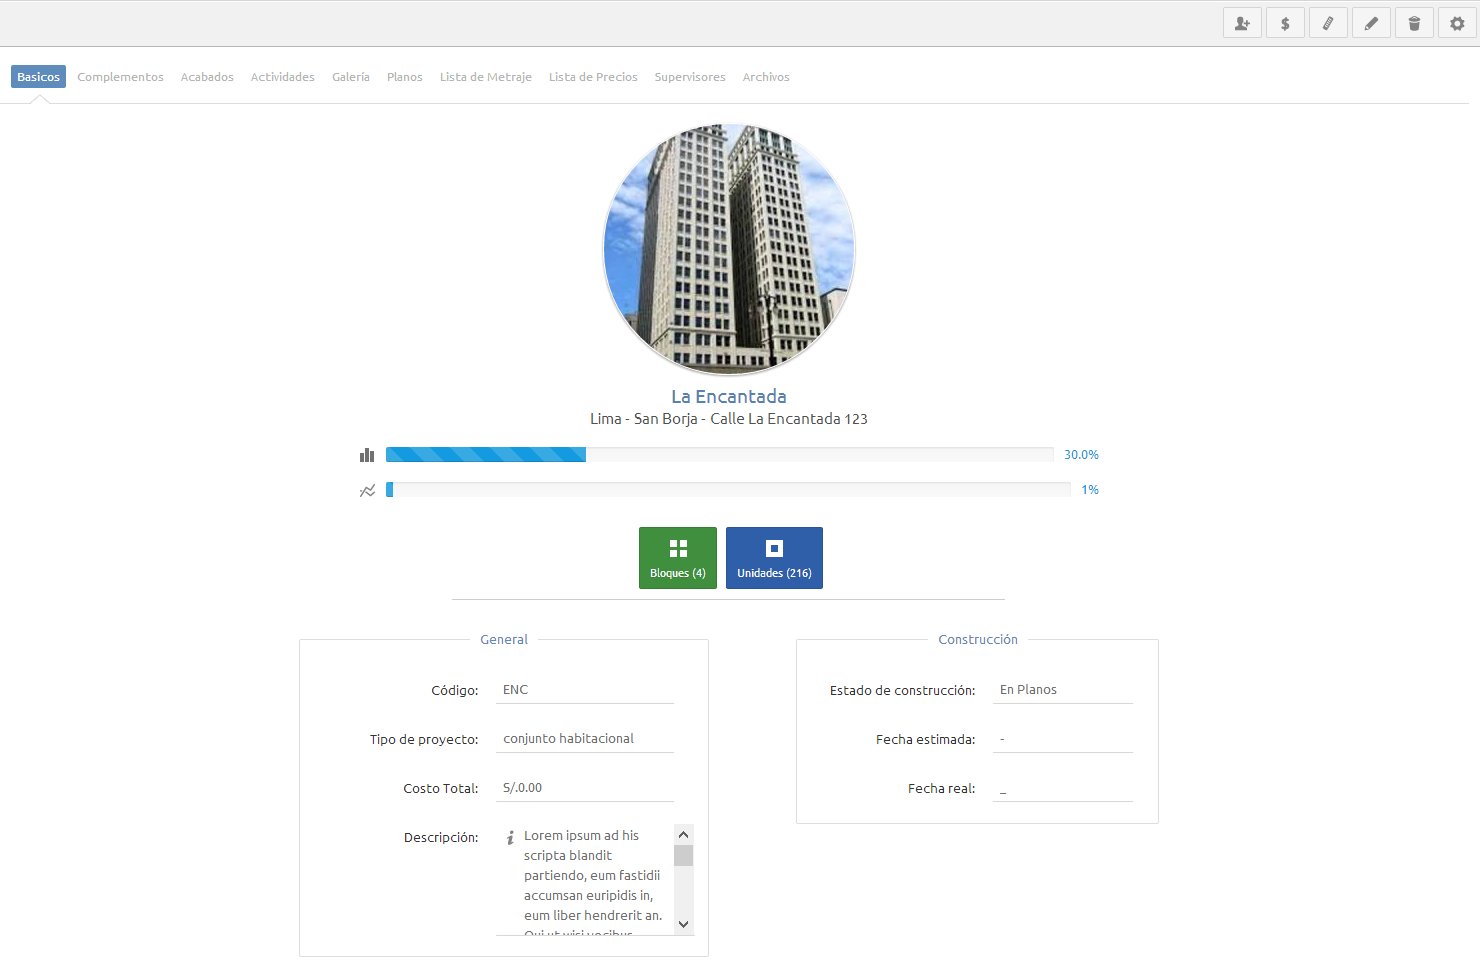
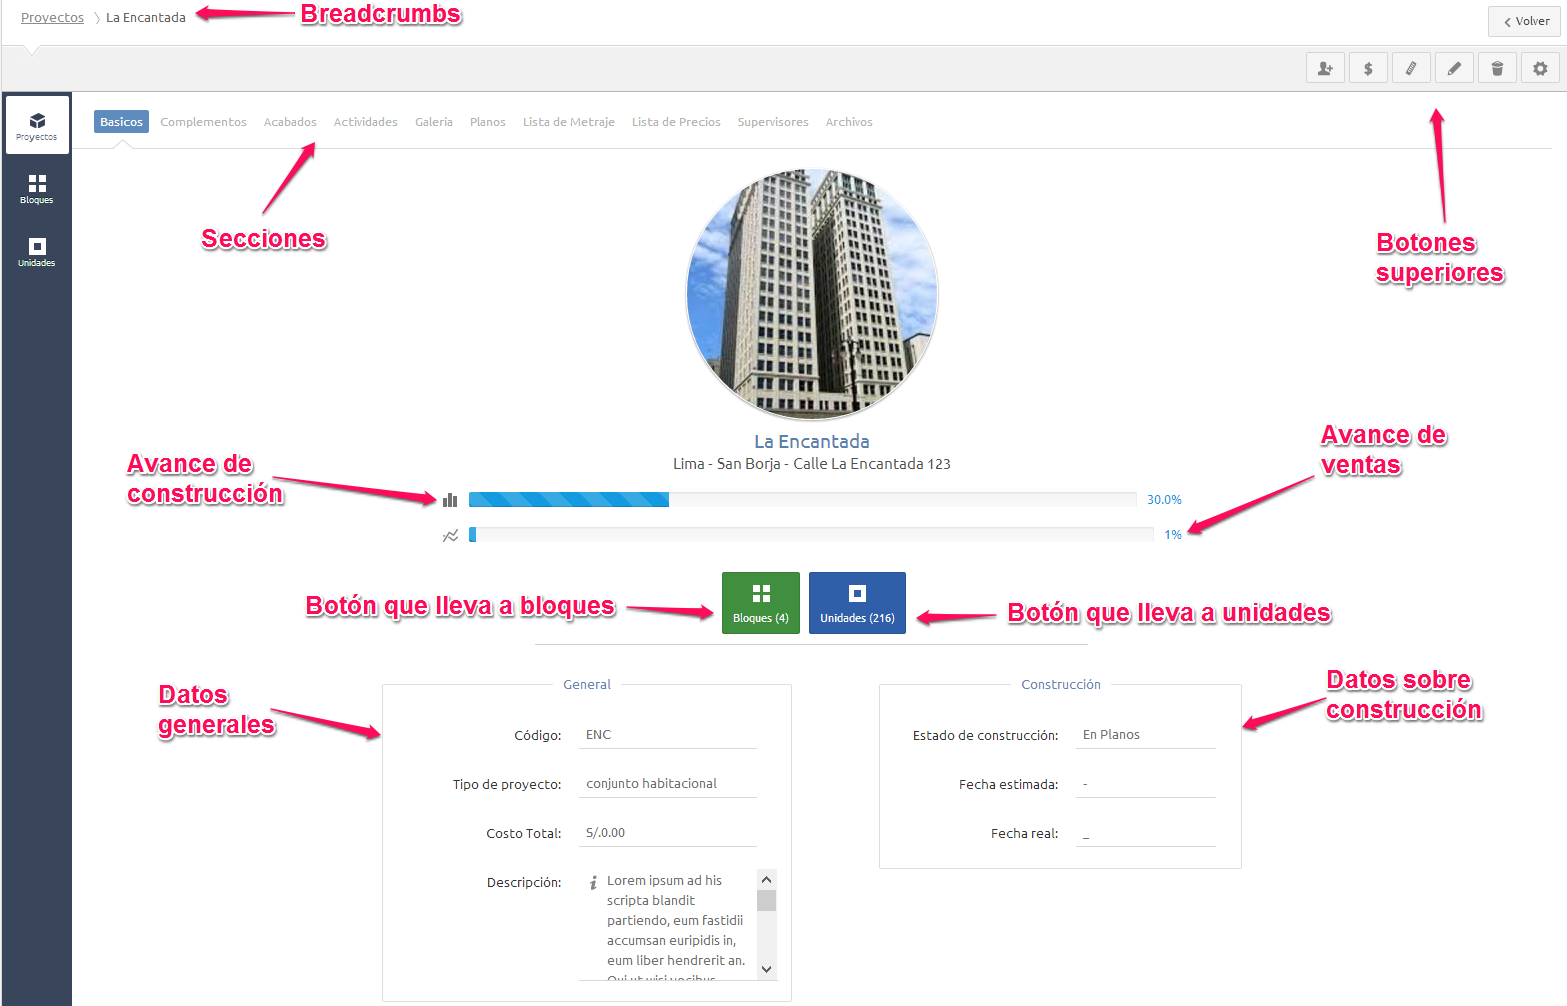
Vista de proyecto

diff --git a/_site/vistaproyecto.html b/_site/vistaproyecto.html
@@ -73,6 +73,10 @@
 - Archivos
 </code></pre>
 
+<p>  <strong>Botones superiores</strong></p>
+
+<blockquote><p><img src="/images/proyectosuperiores.png" alt="Botones superiores" /></p></blockquote>
+
 <p>  En la parte superior derecha de la vista tiene 6 botones, cada uno requiere de accesos para poder ser visualizados.</p>
 
 <p>  El primero permite que al usuario asignar supervisores al proyecto en cuestión. Para verlo necesita acceso a editar el proyecto. Para más información revisar el siguiente enlace: <a href="asignarsupervisores.html">Asignar supervisores</a>.</p>
@@ -89,47 +93,43 @@
 
 <p>  Finalmente tiene un botón "Volver" para regresar a la lista de proyectos.</p>
 
+<p>  <strong>Secciones</strong></p>
+
 <p>  Las siguientes son descripciones de las secciones que se pueden visualizar del proyecto:</p>
 
-<p>  <strong>Básicos</strong></p>
+<ul>
+<li><p>Básicos:</p>
 
-<p>  Esta es la vista principal del proyecto, muestra la imagen que ha sido seleccionada como predeterminada en la sección de galería, dos barras de progreso, una de construcción y otra de unidades vendidas. La vista permite visualizar los datos más generales del proyecto, tales como: nombre, dirección, departamento, distrito, código y tipo de proyecto. Tabién muestra datos como: Costo total, descripción, estado de construcción, fechas real y estimada de construcción.</p>
+<p>Esta es la vista principal del proyecto, muestra la imagen que ha sido seleccionada como predeterminada en la sección de galería, dos barras de progreso, una de construcción y otra de unidades vendidas. La vista permite visualizar los datos más generales del proyecto, tales como: nombre, dirección, departamento, distrito, código y tipo de proyecto. Tabién muestra datos como: Costo total, descripción, estado de construcción, fechas real y estimada de construcción. Esta vista muestra también un botón que lleva a ver la lista de unidades exclusivamente de el proyecto en cuestión, así mismo, si es que el proyecto contase con bloques, tembién se visualiza un botón que lleva al usuario a una lista de bloques exclusivamente del proyecto en cuestión. Para usar ambos botones se requieren accesos a ver bloques y ver uniades respectivamente. Para más información haga click en los siguientes enlaces: <a href="bloques.html">Bloques</a>, <a href="unidades.html">Unidades</a>.</p></li>
+<li><p>Complementos:</p>
 
-<p>  <strong>Complementos</strong></p>
+<p>Esta sección muestra los complementos en las zonas comunes del proyecto. Para entender todo sobre complementos revise el siguiente link: <a href="complementos.html">Complementos</a>.</p></li>
+<li><p>Acabados:</p>
 
-<p>  Esta sección muestra los complementos en las zonas comunes del proyecto. Para entender todo sobre complementos revise el siguiente link: <a href="complementos.html">Complementos</a>.</p>
+<p>Esta sección muestra los acabado en las zonas comunes del proyecto. Para entender todo sobre acabados revise el siguiente link: <a href="acabados.html">Acabados</a>.</p></li>
+<li><p>Actividades:</p>
 
-<p>  <strong>Acabados</strong></p>
+<p>Las actividades son una bitácora de todo lo sucedido con el proyecto, con sus bloques y sus unidades. Ya sean interacciones o modificación de datos, se mostrarán como registros en la lista de actividades, indicando la fecha y hora de ocurrencia, así como el usuario que las originó. Para saber más acerca de actividades consulte el siguiente link: <a href="actividades.html">Actividades</a>.</p></li>
+<li><p>Galería:</p>
 
-<p>  Esta sección muestra los acabado en las zonas comunes del proyecto. Para entender todo sobre acabados revise el siguiente link: <a href="acabados.html">Acabados</a>.</p>
+<p>Esta sección muestra las imágenes del proyecto, su manipulación es igual en proyectos, bloques y unidades. Para entender todo sobre galería de imágenes revise el siguiente link: <a href="galeria.html">Galería</a>.</p></li>
+<li><p>Planos:</p>
 
-<p>  <strong>Actividades</strong></p>
+<p>Esta sección muestra los planos de las zonas comunes del proyecto, su manipulación es igual en proyectos, bloques y unidades. Para entender todo sobre planos revise el siguiente link: <a href="planos.html">Planos</a>.</p></li>
+<li><p>Lista de metraje:</p>
 
-<p>  Las actividades son una bitácora de todo lo sucedido con el proyecto, con sus bloques y sus unidades. Ya sean interacciones o modificación de datos, se mostrarán como registros en la lista de actividades, indicando la fecha y hora de ocurrencia, así como el usuario que las originó. Para saber más acerca de actividades consulte el siguiente link: <a href="actividades.html">Actividades</a>.</p>
+<p>Las listas de metraje definen un área libre y un área techada para cada unidad. Permiten que un gestor de proyectos genere nuevas listas de metraje cuando sea necesario. Están relacionadas a los planos, y sólo una puede estar activa. Para entender todo sobre listas de metraje revise el siguiente link: <a href="listasmetraje.html">Listas de metraje</a>.</p></li>
+<li><p>Lista de precios:</p>
 
-<p>  <strong>Galería</strong></p>
+<p>Las listas de precios permiten definir precios para diferentes periodos de venta del proyecto. Un gestor de proyectos puede publicar nuevas listas de precios cuando sea necesario, sólo una puede estar activa. Para entender todo sobre listas de precios revise el siguiente link: <a href="listasprecios.html">Listas de precios</a>.</p></li>
+<li><p>Supervisores:</p>
 
-<p>  Esta sección muestra las imágenes del proyecto, su manipulación es igual en proyectos, bloques y unidades. Para entender todo sobre galería de imágenes revise el siguiente link: <a href="galeria.html">Galería</a>.</p>
+<p>Los supervisores son usuarios que reciben notificaciones relacionadas al proyecto. Pueden aprobar solicitudes de excepción y descuentos. Puede haber más de un supervisor por proyecto. Para mayor información acerca de supervisores de proyecto revise el siguiente enlace: <a href="supervisores.html">Supervisores</a>.</p></li>
+<li><p>Archivos:</p>
 
-<p>  <strong>Planos</strong></p>
+<p>Esta sección muestra los archivos adjuntos relacionados al proyecto, su manipulación es igual en proyectos, bloques y unidades. Para entender todo sobre archivos adjuntos de propiedades revise el siguiente link: <a href="archivospropiedades.html">Archivos de propiedades</a>.</p></li>
+</ul>
 
-<p>  Esta sección muestra los planos de las zonas comunes del proyecto, su manipulación es igual en proyectos, bloques y unidades. Para entender todo sobre planos revise el siguiente link: <a href="planos.html">Planos</a>.</p>
-
-<p>  <strong>Lista de metraje</strong></p>
-
-<p>  Las listas de metraje definen un área libre y un área techada para cada unidad. Permiten que un gestor de proyectos genere nuevas listas de metraje cuando sea necesario. Están relacionadas a los planos, y sólo una puede estar activa. Para entender todo sobre listas de metraje revise el siguiente link: <a href="listasmetraje.html">Listas de metraje</a>.</p>
-
-<p>  <strong>Lista de precios</strong></p>
-
-<p>  Las listas de precios permiten definir precios para diferentes periodos de venta del proyecto. Un gestor de proyectos puede publicar nuevas listas de precios cuando sea necesario, sólo una puede estar activa. Para entender todo sobre listas de precios revise el siguiente link: <a href="listasprecios.html">Listas de precios</a>.</p>
-
-<p>  <strong>Supervisores</strong></p>
-
-<p>  Los supervisores son usuarios que reciben notificaciones relacionadas al proyecto. Pueden aprobar solicitudes de excepción y descuentos. Puede haber más de un supervisor por proyecto. Para mayor información acerca de supervisores de proyecto revise el siguiente enlace: <a href="supervisores.html">Supervisores</a>.</p>
-
-<p>  <strong>Archivos</strong></p>
-
-<p>  Esta sección muestra los archivos adjuntos relacionados al proyecto, su manipulación es igual en proyectos, bloques y unidades. Para entender todo sobre archivos adjuntos de propiedades revise el siguiente link: <a href="archivospropiedades.html">Archivos de propiedades</a>.</p>
 
         </div>
       </div>

diff --git a/_site/crealistadeprecios.html b/_site/crealistadeprecios.html
@@ -1,0 +1,92 @@
+<!DOCTYPE html>
+<html lang="en">
+  <head>
+    <meta charset="utf-8">
+    <title>Sperant - Ayuda - Nueva lista de precios</title>
+    <meta name="viewport" content="width=device-width, initial-scale=1.0">
+    <meta name="description" content="">
+    <meta name="author" content="">
+
+    <!-- Le styles -->
+    <link href="/assets/css/sperant.css" rel="stylesheet">
+    <link href="/assets/css/styles.css" rel="stylesheet">
+    <link href="/assets/css/sperant-responsive.css" rel="stylesheet">
+    <link href='http://fonts.googleapis.com/css?family=Open+Sans:400,300,600,700' rel='stylesheet' type='text/css'>
+
+    <!-- Le HTML5 shim, for IE6-8 support of HTML5 elements -->
+    <!--[if lt IE 9]>
+      <script src="http://html5shim.googlecode.com/svn/trunk/html5.js">
+      </script>
+    <![endif]-->
+  </head>
+
+  <body>    
+    <div class="navbar navbar-fixed-top">
+      <div class="navbar-inner">
+        <div class="container">
+          <a href="/" class="brand"><img src="http://sperant.com/assets/logo-sperant-9e6e10d0126d3c8aaa9fa01caddb5a06.png"></a>
+          <ul class="nav pull-right">
+            <li><a href="http://sperant.com/">Sperant</a></li>
+            <li><a href="http://sperant.com/#about">Acerca de</a></li>
+          </ul>
+        </div>
+      </div>
+    </div>
+    <div class="container">
+      <div class="row">
+        <div class="span3">
+          <ul id="menu" class="nav nav-list" data-spy="affix">
+            <li class="nav-header"><strong>SPERANT - AYUDA</strong></li>
+            <li data-section="1"><a href="/acercade.html">Acerca de Sperant</a></li>
+            <li data-section="2"><a href="/recomendacionesdeuso.html">Recomendaciones de uso</a></li>
+            <li data-section="3"><a href="/aspectosgenerales.html">Aspectos generales</a></li>
+            <!--li data-section="4"><a href="/">Notificaciones</a></li-->
+            <li data-section="5"><a href="/proyectos.html">Módulo de Proyectos</a></li>
+            <li data-section="6"><a href="/clientes.html">Módulo de Clientes</a></li>
+            <li data-section="7"><a href="/adquisicion.html">Módulo de Adquisición</a></li>
+            <li data-section="8"><a href="/vendedores.html">Módulo de Vendedores</a></li>
+            <li data-section="9"><a href="/usuarios.html">Módulo de Usuarios</a></li>
+            <li data-section="10"><a href="/administracion.html">Módulo de Administración</a></li>
+            <li data-section="11"><a href="/reportes.html">Módulo de Reportes</a></li>
+            <li class="nav-header"><strong>SOPORTE</strong></li>
+            <li><a href="mailto:soporte@sperant.com">Contacto de soporte</a></li>
+          </ul>
+        </div>
+        <div class="span9">
+          <h1>Nueva lista de precios</h1>
+
+<hr />
+
+<p>  Al crear una nueva lista de precios se visualizará una lista de todas las unidades, y en cada registro un</p>
+
+<blockquote><p><img src="/images/vistaproyecto.png" alt="Vista de proyecto" /></p></blockquote>
+
+<p>  La vista de proyecto cuenta con las siguientes secciones:</p>
+
+        </div>
+      </div>
+    </div>
+
+    <script src="https://ajax.googleapis.com/ajax/libs/jquery/1.7.2/jquery.min.js">
+    </script>
+
+    <script>
+      $('#menu [data-section=""]').addClass('active');
+    </script>
+
+    <script type="text/javascript">
+
+      var _gaq = _gaq || [];
+      _gaq.push(['_setAccount', '']);
+      _gaq.push(['_trackPageview']);
+
+      (function() {
+        var ga = document.createElement('script'); ga.type = 'text/javascript'; ga.async = true;
+        ga.src = ('https:' == document.location.protocol ? 'https://ssl' : 'http://www') + '.google-analytics.com/ga.js';
+        var s = document.getElementsByTagName('script')[0]; s.parentNode.insertBefore(ga, s);
+      })();
+
+    </script>
+  </body>
+</html>
+

diff --git a/vistaproyecto.md b/vistaproyecto.md
@@ -21,6 +21,10 @@ title: Vista de proyecto
     - Supervisores
     - Archivos
 
+  **Botones superiores**
+  
+  >![Botones superiores](/images/proyectosuperiores.png)
+
   En la parte superior derecha de la vista tiene 6 botones, cada uno requiere de accesos para poder ser visualizados.
 
   El primero permite que al usuario asignar supervisores al proyecto en cuestión. Para verlo necesita acceso a editar el proyecto. Para más información revisar el siguiente enlace: [Asignar supervisores](asignarsupervisores.html).
@@ -37,47 +41,47 @@ title: Vista de proyecto
 
   Finalmente tiene un botón "Volver" para regresar a la lista de proyectos.
 
+  **Secciones**
+
   Las siguientes son descripciones de las secciones que se pueden visualizar del proyecto:
 
-  **Básicos**
+  - Básicos:
 
-  Esta es la vista principal del proyecto, muestra la imagen que ha sido seleccionada como predeterminada en la sección de galería, dos barras de progreso, una de construcción y otra de unidades vendidas. La vista permite visualizar los datos más generales del proyecto, tales como: nombre, dirección, departamento, distrito, código y tipo de proyecto. Tabién muestra datos como: Costo total, descripción, estado de construcción, fechas real y estimada de construcción.
+    Esta es la vista principal del proyecto, muestra la imagen que ha sido seleccionada como predeterminada en la sección de galería, dos barras de progreso, una de construcción y otra de unidades vendidas. La vista permite visualizar los datos más generales del proyecto, tales como: nombre, dirección, departamento, distrito, código y tipo de proyecto. Tabién muestra datos como: Costo total, descripción, estado de construcción, fechas real y estimada de construcción. Esta vista muestra también un botón que lleva a ver la lista de unidades exclusivamente de el proyecto en cuestión, así mismo, si es que el proyecto contase con bloques, tembién se visualiza un botón que lleva al usuario a una lista de bloques exclusivamente del proyecto en cuestión. Para usar ambos botones se requieren accesos a ver bloques y ver uniades respectivamente. Para más información haga click en los siguientes enlaces: [Bloques](bloques.html), [Unidades](unidades.html).
 
-  **Complementos**
+  - Complementos:
 
-  Esta sección muestra los complementos en las zonas comunes del proyecto. Para entender todo sobre complementos revise el siguiente link: [Complementos](complementos.html).
+    Esta sección muestra los complementos en las zonas comunes del proyecto. Para entender todo sobre complementos revise el siguiente link: [Complementos](complementos.html).
 
-  **Acabados**
+  - Acabados:
   
-  Esta sección muestra los acabado en las zonas comunes del proyecto. Para entender todo sobre acabados revise el siguiente link: [Acabados](acabados.html).
+    Esta sección muestra los acabado en las zonas comunes del proyecto. Para entender todo sobre acabados revise el siguiente link: [Acabados](acabados.html).
 
-  **Actividades**
+  - Actividades:
   
-  Las actividades son una bitácora de todo lo sucedido con el proyecto, con sus bloques y sus unidades. Ya sean interacciones o modificación de datos, se mostrarán como registros en la lista de actividades, indicando la fecha y hora de ocurrencia, así como el usuario que las originó. Para saber más acerca de actividades consulte el siguiente link: [Actividades](actividades.html).
+    Las actividades son una bitácora de todo lo sucedido con el proyecto, con sus bloques y sus unidades. Ya sean interacciones o modificación de datos, se mostrarán como registros en la lista de actividades, indicando la fecha y hora de ocurrencia, así como el usuario que las originó. Para saber más acerca de actividades consulte el siguiente link: [Actividades](actividades.html).
 
-  **Galería**
+  - Galería:
 
-  Esta sección muestra las imágenes del proyecto, su manipulación es igual en proyectos, bloques y unidades. Para entender todo sobre galería de imágenes revise el siguiente link: [Galería](galeria.html).
+    Esta sección muestra las imágenes del proyecto, su manipulación es igual en proyectos, bloques y unidades. Para entender todo sobre galería de imágenes revise el siguiente link: [Galería](galeria.html).
 
-  **Planos**
+  - Planos:
 
-  Esta sección muestra los planos de las zonas comunes del proyecto, su manipulación es igual en proyectos, bloques y unidades. Para entender todo sobre planos revise el siguiente link: [Planos](planos.html).
+    Esta sección muestra los planos de las zonas comunes del proyecto, su manipulación es igual en proyectos, bloques y unidades. Para entender todo sobre planos revise el siguiente link: [Planos](planos.html).
 
-  **Lista de metraje**
+  - Lista de metraje:
 
-  Las listas de metraje definen un área libre y un área techada para cada unidad. Permiten que un gestor de proyectos genere nuevas listas de metraje cuando sea necesario. Están relacionadas a los planos, y sólo una puede estar activa. Para entender todo sobre listas de metraje revise el siguiente link: [Listas de metraje](listasmetraje.html).
+    Las listas de metraje definen un área libre y un área techada para cada unidad. Permiten que un gestor de proyectos genere nuevas listas de metraje cuando sea necesario. Están relacionadas a los planos, y sólo una puede estar activa. Para entender todo sobre listas de metraje revise el siguiente link: [Listas de metraje](listasmetraje.html).
 
-  **Lista de precios**
+  - Lista de precios:
 
-  Las listas de precios permiten definir precios para diferentes periodos de venta del proyecto. Un gestor de proyectos puede publicar nuevas listas de precios cuando sea necesario, sólo una puede estar activa. Para entender todo sobre listas de precios revise el siguiente link: [Listas de precios](listasprecios.html).
+    Las listas de precios permiten definir precios para diferentes periodos de venta del proyecto. Un gestor de proyectos puede publicar nuevas listas de precios cuando sea necesario, sólo una puede estar activa. Para entender todo sobre listas de precios revise el siguiente link: [Listas de precios](listasprecios.html).
 
+  - Supervisores:
 
-  **Supervisores**
+    Los supervisores son usuarios que reciben notificaciones relacionadas al proyecto. Pueden aprobar solicitudes de excepción y descuentos. Puede haber más de un supervisor por proyecto. Para mayor información acerca de supervisores de proyecto revise el siguiente enlace: [Supervisores](supervisores.html).
 
-  Los supervisores son usuarios que reciben notificaciones relacionadas al proyecto. Pueden aprobar solicitudes de excepción y descuentos. Puede haber más de un supervisor por proyecto. Para mayor información acerca de supervisores de proyecto revise el siguiente enlace: [Supervisores](supervisores.html).
+  - Archivos:
 
-
-  **Archivos**
-
-  Esta sección muestra los archivos adjuntos relacionados al proyecto, su manipulación es igual en proyectos, bloques y unidades. Para entender todo sobre archivos adjuntos de propiedades revise el siguiente link: [Archivos de propiedades](archivospropiedades.html).
+    Esta sección muestra los archivos adjuntos relacionados al proyecto, su manipulación es igual en proyectos, bloques y unidades. Para entender todo sobre archivos adjuntos de propiedades revise el siguiente link: [Archivos de propiedades](archivospropiedades.html).
 

diff --git a/crealistadeprecios.md b/crealistadeprecios.md
@@ -1,0 +1,13 @@
+---
+layout: default
+title: Nueva lista de precios
+---
+
+# Nueva lista de precios
+---------------------------------------
+  
+  Al crear una nueva lista de precios se visualizará una lista de todas las unidades, y en cada registro un 
+
+  >![Vista de proyecto](/images/vistaproyecto.png)
+  
+  La vista de proyecto cuenta con las siguientes secciones:
